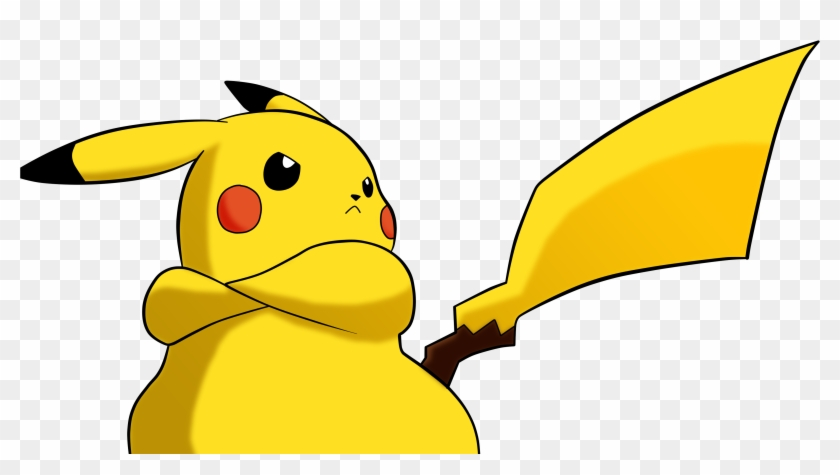
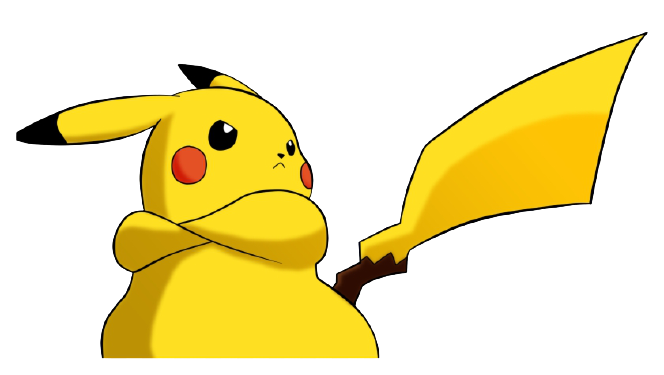
Removed backgrounds from PNGs. Added 90% accuracy to attacks

diff --git a/app.js b/app.js
@@ -1,45 +1,144 @@
-const ctx = canvas.getContext('2d')
+document.addEventListener('DOMContentLoaded',()=>{
+  // -------------------------------------- VARIABLES --------------------------------------
+  const ctx = canvas.getContext('2d')
+  const healthBar = document.getElementById('healthbar')
+  const eHealthBar = document.getElementById('eHealthBar')
+  let battlePhase = false //false=>Roaming, true=>Battling
+  let pikaTurn = true //true=>Player's turn in battle, false=>Enemy's turn
+  let attackSelected = true //true=>battler has selected Attack, false=> has not selected Attack
+  let healSelected = false //false=>battler has selected Heal, true=> has not selected Heal
+  const playerAttackStat = 4
+  const playerHealStat = 6
+  const enemyAttackStat = 2
+  const enemyHealStat = 3
+  const eName = 'Lugia'
 
-let pikachu = new Crawler(10, 10, '#bada55', 16, 16)
-console.log(pikachu)
+  // -------------------------------------- FUNCTIONS --------------------------------------
+  // obj capable of moving around canvas
+  function Crawler(x, y, color, height, width){
+    this.x = x
+    this.y = y
+    this.color = color
+    this.height = height
+    this.width = width
+    this.alive = true
+    // then to define our 'render' method
+    this.render = function() {
+      ctx.fillStyle = this.color
+      ctx.fillRect(this.x, this.y, this.height, this.width)
+    }
+  }
 
-// add event listener for player movement
-document.addEventListener('keydown',movementHandler)
+  // move player around PlayerMovementArea
+  function movementHandler(event){
+    switch (event.key.toLowerCase()) {
+      case'w': // W key
+        pikachu.y -= 10//move up 10
+        break
+      case'a': // A key
+        pikachu.x -= 10//move left 10
+        break
+      case's': // S key
+        pikachu.y += 10//move down 10
+        break
+      case'd': // D key
+        pikachu.x += 10//move right 10
+        break
+    }
+  }
 
-// Check the current position for presense of wild Pokemon
-function detectEncounter(){
-  if(false){startBattle()}//just a mental placeholder
-}
+  // Loop running during roamView
+  function roamLoop(){
+    // clear the canvas
+    ctx.clearRect(0,0, canvas.width, canvas.height)
+    // display relevant game state (player movement) in our movement display
+    pikaPosition.innerText = `x: ${pikachu.x}\ny: ${pikachu.y}`
+    
+    //HERE IS WHERE WE WILL LOOK FOR WILD POKEMON ENCOUNTERS
+    //OR PRESSING OF B KEY TO START
+    detectEncounter()
 
-// what happens when game is running
-function roamLoop(){
-  // clear the canvas
-  ctx.clearRect(0,0, canvas.width, canvas.height)
-  // display relevant game state (player movement) in our movement display
-  pikaPosition.innerText = `x: ${pikachu.x}\ny: ${pikachu.y}`
+    // render our player
+    pikachu.render()
+  }
+
+  // Check the current position for presense of wild Pokemon
+  function detectEncounter(){
+    if(false){startBattle()}//just a mental placeholder
+  }
+
+  // Press B to automatically start battle
+  function detectAutoBatle(event){
+    if (!battlePhase && event.key.toLowerCase()==='b'){startBattle()}
+  }
+
+  // When battle starts, slide roamView offscreen to show battleView
+  function onViewChange(evt) {
+    main.classList.toggle('view-change');
+  }
+
+  // Stop rendering canvas in battleView
+  function clearGameInterval(){clearInterval(gameInterval)}
+
+  // Start battle
+  function startBattle(){
+    battlePhase = true
+    onViewChange()
+    // eHealthBar.value = 100
+  }
+
+  // Take turn in battle
+  function takeTurn(event){
+    if(battlePhase && event.key==='Enter'){
+      switch(pikaTurn){
+        case true:  // Player's turn
+          if(attackSelected){// They have Attack selected and hit enter
+            if(Math.random()<0.9){// Attacks have 90% accuracy
+              eHealthBar.value -= playerAttackStat
+              turnDescription.innerText = "Pikachu's attack landed!"
+            } else {
+              turnDescription.innerText = "Pikachu's attack missed!!!"
+            }
+          } else if(healSelected){
+            healthBar += playerHealStat
+          }
+          if(eHealthBar.value<=0){
+            turnDescription.innerText = "Pikachu ran out of health..."
+          } else {
+            turnIndicator.innerText = eName+"'s Turn"
+          }
+          break
+        case false:  // Enemy's turn
+          if(attackSelected){
+            healthBar.value -= enemyAttackStat
+          } else if(healSelected){
+            eHealthBar += enemyHealStat
+          }
+          turnIndicator.innerText = "Pikachu's Turn"
+          break
+      }
+      pikaTurn = !pikaTurn
+    }
+  }
+
   
-  //HERE IS WHERE WE WILL LOOK FOR WILD POKEMON ENCOUNTERS
-  //OR PRESSING OF B KEY TO START
-  detectEncounter()
+  // -------------------------------------- CALLS --------------------------------------
+  // character for walking around canvas
+  let pikachu = new Crawler(10, 10, '#bada55', 16, 16)
+  // healthbar.value = 10
 
-  // render our player
-  pikachu.render()
-}
+  // add event listener for player movement
+  document.addEventListener('keydown',movementHandler)
 
+  // Run ftn roamLoop inside setInterval to update playerMovementArea during Roaming
+  const gameInterval = setInterval(roamLoop, 70)
 
-// Run ftn roamLoop inside setInterval to update playerMovementArea during Roaming
-const gameInterval = setInterval(roamLoop, 70)
-function clearGameInterval(){clearInterval(gameInterval)}
+  // Initially Pressing 'B' will start battle
+  document.addEventListener('keydown',detectAutoBatle)
 
-// Initially Pressing 'B' will start battle
-document.addEventListener('keydown',detectAutoBatle)
-function detectAutoBatle(event){
-  if (event.key.toLowerCase()==='b'){startBattle()}
-}
+  // State machine for battling
+  document.addEventListener('keydown',takeTurn)
 
-// When battle starts, slide roamView offscreen
-function onViewChange(evt) {
-  main.classList.toggle('view-change');
-}
-leftBtn.addEventListener('click', onViewChange)
-rightBtn.addEventListener('click', onViewChange, false)
+  // leftBtn.addEventListener('click', onViewChange)
+  // rightBtn.addEventListener('click', onViewChange, false)
+})

diff --git a/index.html b/index.html
@@ -8,11 +8,8 @@
   <title>Pokemon Fenton Region</title>
 </head>
 <body>
-  <!-- <img id="test" src="lugia4.png" alt="Pokemon"> -->
   <header id="header">
     <div id="pikaPosition">Pikachu Position: </div>
-    <button id="leftBtn">Left</button>
-    <button id="rightBtn">Right</button>
   </header>
 
   <!-- This is the part that will transition for battle -->
@@ -26,26 +23,27 @@
       <div id="enemyHealth">Lugia Health:
         <progress id="eHealthBar" value="80" max="100"></progress>
       </div>
-        <img src="lugia4.png" alt="Pokemon">
-        <!-- <div id="opponentImage"></div> -->
+        <img src="lugia.png" alt="Pokemon">
       </div>
       <div class="corners" id="playerCorner">
         <img src="battlePikachu.png" alt="Pikachu">
       </div>
       <div id="battleWords">
+        <div id="turnDescription">Lugia appeared!</div>
         <h1 id="turnIndicator">Pikachu's turn</h1>
         <h2>Do you want to attack or heal?</h2>
         <h1><span id="AAttack" class='selected'>(A)Attack</span> <span id="DHeal">(D)Heal</span></h1>
+        <h2 id="pressEnter">Press Enter to Attack!</h2>
       </div>
     </div>
   </main>
 
   <!-- 'position: sticky' Health bar -->
   <div id="pikaHealth">Pika Health:
-    <progress id="healthbar" value="80" max="100"></progress>
+    <progress id="healthbar" value="100" max="100"></progress>
   </div>
-  
-  <script src="functions.js"></script>
+
+  <!-- <script src="functions.js"></script> -->
   <script src="app.js"></script>
 </body>
 </html>

diff --git a/functions.js b/functions.js
@@ -1,32 +1,5 @@
-// obj capable of moving around canvas
-function Crawler(x, y, color, height, width){
-  this.x = x
-  this.y = y
-  this.color = color
-  this.height = height
-  this.width = width
-  this.alive = true
-  // then to define our 'render' method
-  this.render = function() {
-    ctx.fillStyle = this.color
-    ctx.fillRect(this.x, this.y, this.height, this.width)
-  }
-}
+document.addEventListener('DOMContentLoaded',()=>{
 
-// move player around PlayerMovementArea
-function movementHandler(event){
-  switch (event.key.toLowerCase()) {
-    case'w': // W key
-      pikachu.y -= 10//move up 10
-      break
-    case'a': // A key
-      pikachu.x -= 10//move left 10
-      break
-    case's': // S key
-      pikachu.y += 10//move down 10
-      break
-    case'd': // D key
-      pikachu.x += 10//move right 10
-      break
-  }
-}
+// NO LONGER BEING USED
+  
+})

diff --git a/style.css b/style.css
@@ -63,14 +63,14 @@ canvas {
   font-size: 1.5rem;
 }
 
-#eHealthBar::-webkit-progress-value {background: red; }
+/* #eHealthBar::-webkit-progress-value {background: red; }  NO WORKY? */
 
 #opponentCorner>img {
-/* img { */
   width: 300px;
   position: absolute;
   right: 0;
   background: transparent;
+  transform: translateY(-15%);
 }
 #opponentImage {
   background-image: url("lugia4.png");
@@ -85,6 +85,7 @@ canvas {
 #playerCorner>img {
   width: 300px;
   background: white;
+  background: transparent;
 }
 #battleWords {
   grid-column: 2/3;
@@ -92,11 +93,15 @@ canvas {
   background-color: #666;
   text-align: center;
 }
+#turnDescription {
+  height: 100px;
+  font-size: 1.5rem;
+  padding: 10px;
+}
 .selected {
   border: 2px solid black;
   font-weight: bold;
 }
-
 #pikaHealth {
   position: sticky;
   bottom: 0;
